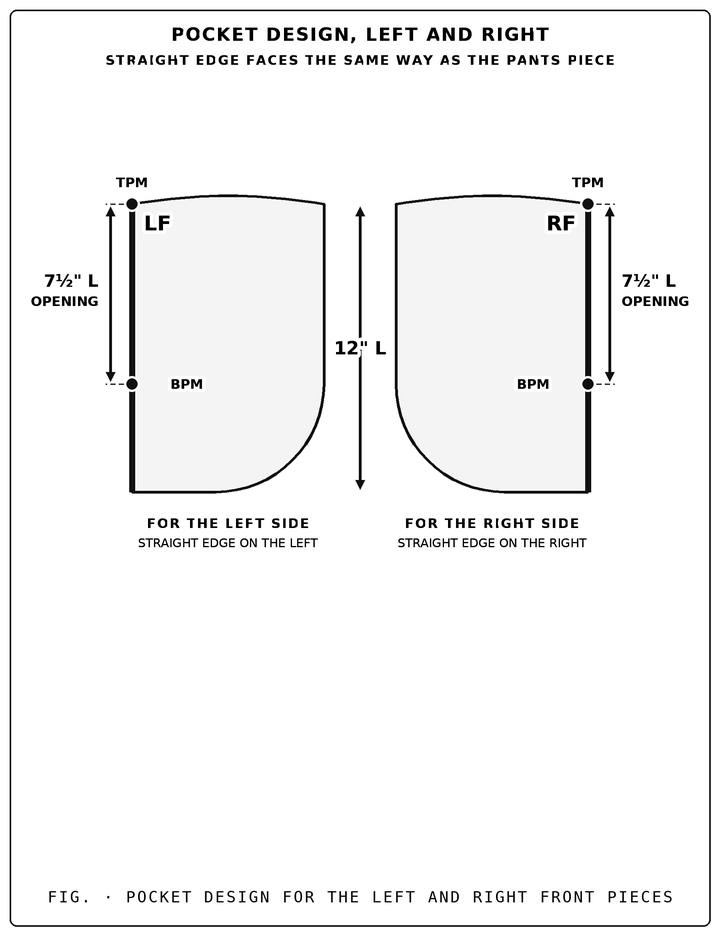
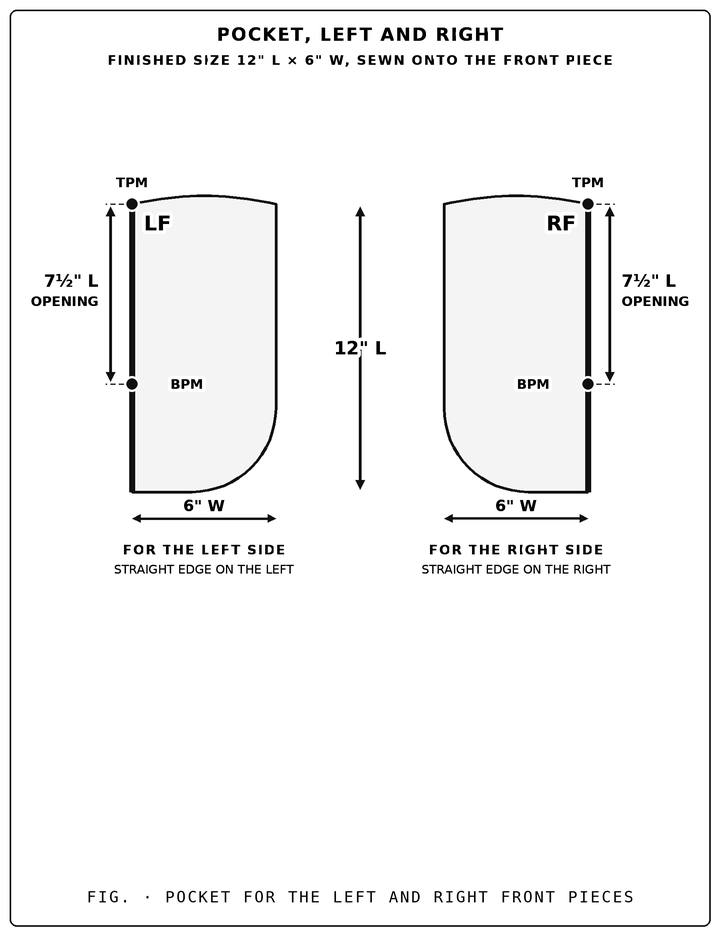
One-piece patch pocket: 6.9 edges and sewing onto the front piece, 6.10 straight edge seam; pocket picture 12 x 6
Claude-Session: https://claude.ai/code/session_01Jb6CsvA4P9m57KaPHMSvnj

diff --git a/index.html b/index.html
@@ -648,33 +648,29 @@ html{scroll-behavior:auto!important}
 <div class="ssec" id="l6_9">
 <div class="ph"><div class="nc"><div class="num">6.9</div></div><div class="tc"><h2>Sew the Pockets</h2></div></div>
 <div class="sbody">
-<div class="top"><div class="topfig"><img alt="cp_pocket.jpg" class="zoom" src="cp_pocket.jpg" long with the opening on the straight edge"><div class="clk">click</div></div><div class="desc2"><p>The pocket design is two pieces of fabric, <span class="dv" data-e="PKL">12</span>" long, with a <span class="dv" data-e="POCK">7½</span>" opening on the straight edge. The pocket sits between the front and the rear pieces, so your hand goes in through the pocket opening. First sew the straight edge above and below the opening, then sew one half of the pocket to each pants piece.</p></div></div>
+<div class="top"><div class="topfig"><img alt="cp_pocket.jpg" class="zoom" src="cp_pocket.jpg"><div class="clk">click</div></div><div class="desc2"><p>Each pocket is one piece of fabric sewn onto the outside of a front piece. It is cut <span class="dv" data-e="PKCL">14</span>" L × <span class="dv" data-e="PKCW">8</span>" W. After the edges are folded and sewn it is <span class="dv" data-e="PKL">12</span>" L × <span class="dv" data-e="PKW">6</span>" W. The right side of the pocket faces out and its wrong side lies against the right side of the front piece, so the rough edges are folded under and never show.</p></div></div>
 <div class="ssec item" id="l6_9_i1">
-<div class="ph"><div class="nc"><div class="num">1</div></div><div class="tc"><h2>Sewing Above and Below the Pocket Opening <span class="tot"><span class="dv" data-e="TPL">42</span>" L</span></h2></div></div>
+<div class="ph"><div class="nc"><div class="num">1</div></div><div class="tc"><h2>Sewing the Pocket Edges <span class="tot"><span class="dv" data-e="PKCL">14</span>" L × <span class="dv" data-e="PKCW">8</span>" W</span></h2></div></div>
 <div class="sbody">
-<div class="desc"><p>Sew all three layers together along the straight edge, leaving the pocket opening unsewn.</p></div>
-<div class="step"><b>Step 1:</b> Lay the rear piece flat. Place the pocket on top of it, then place the front piece over both. Line up all the straight edges.</div>
-<div class="step"><b>Step 2:</b> Start at the top of the straight edge and sew down to the Top Pocket Mark (TPM), <span class="dv" data-e="TPM">6</span>" from the top. Tie a knot and cut the thread.</div>
-<div class="step"><b>Step 3:</b> Skip the <span class="dv" data-e="POCK">7½</span>" pocket opening. Start again at the Bottom Pocket Mark (BPM), <span class="dv" data-e="BPM">13½</span>" from the top, and sew all the way down to the ankle. This sews all three layers together in one pass.</div>
-<div class="t"><div class="tr h c3"><span>Part</span><span>Detail</span><span>Value</span></div><div class="tr c3"><span>Seam above the opening</span><span>Top of the pants to the TPM</span><span class="m"><label class="ckw"><b class="v"><span class="dv" data-e="TPM">6</span>" L</b><input type="checkbox" class="ck" aria-label="counted"></label></span></div><div class="tr c3"><span>Pocket opening</span><span>TPM to BPM, left unsewn</span><span class="m"><label class="ckw"><b class="v"><span class="dv" data-e="POCK">7½</span>" L</b><input type="checkbox" class="ck" aria-label="counted"></label></span></div><div class="tr c3 tot"><span>Seam below the opening</span><span>BPM to the ankle</span><span class="m"><label class="ckw"><b class="v"><span class="dv" data-e="BTA">28½</span>" L</b><input type="checkbox" class="ck" aria-label="counted"></label></span></div></div>
+<div class="desc"><p>Fold the rough edges of the pocket under and sew them down, so no rough edge shows on the outside of the pants.</p></div>
+<div class="step"><b>Step 1:</b> Fold the straight edge <span class="dv" data-e="SAW">1</span>" toward the wrong side and sew it.</div>
+<div class="step"><b>Step 2:</b> Fold the top edge <span class="dv" data-e="SAW">1</span>" down toward the wrong side and sew it.</div>
+<div class="step"><b>Step 3:</b> Fold the arch edge <span class="dv" data-e="SAW">1</span>" toward the wrong side and sew it all the way around the curve.</div>
+<div class="step"><b>Step 4:</b> Do this for both pockets.</div>
+<div class="t"><div class="tr h c3"><span>Part</span><span>Detail</span><span>Value</span></div><div class="tr c3"><span>Finished length</span><span>Top of the pocket to the bottom</span><span class="m"><label class="ckw"><b class="v"><span class="dv" data-e="PKL">12</span>" L</b><input type="checkbox" class="ck" aria-label="counted"></label></span></div><div class="tr c3"><span>Edge allowance</span><span><span class="dv" data-e="SAW">1</span>" folded at the top and <span class="dv" data-e="SAW">1</span>" at the bottom</span><span class="m"><label class="ckw"><b class="v">2" L</b><input type="checkbox" class="ck" aria-label="counted"></label></span></div><div class="tr c3 tot"><span>Cut length</span><span>Finished length + edge allowance</span><span class="m"><label class="ckw"><b class="v"><span class="dv" data-e="PKCL">14</span>" L</b><input type="checkbox" class="ck" aria-label="counted"></label></span></div></div>
+<div class="t"><div class="tr h c3"><span>Part</span><span>Detail</span><span>Value</span></div><div class="tr c3"><span>Finished width</span><span>Straight edge to the arch</span><span class="m"><label class="ckw"><b class="v"><span class="dv" data-e="PKW">6</span>" W</b><input type="checkbox" class="ck" aria-label="counted"></label></span></div><div class="tr c3"><span>Edge allowance</span><span><span class="dv" data-e="SAW">1</span>" folded at each side</span><span class="m"><label class="ckw"><b class="v">2" W</b><input type="checkbox" class="ck" aria-label="counted"></label></span></div><div class="tr c3 tot"><span>Cut width</span><span>Finished width + edge allowance</span><span class="m"><label class="ckw"><b class="v"><span class="dv" data-e="PKCW">8</span>" W</b><input type="checkbox" class="ck" aria-label="counted"></label></span></div></div>
 </div>
 </div>
 <div class="ssec item" id="l6_9_i2">
-<div class="ph"><div class="nc"><div class="num">2</div></div><div class="tc"><h2>Sewing the Pocket to the Rear Piece <span class="tot"><span class="dv" data-e="POCK">7½</span>" L</span></h2></div></div>
+<div class="ph"><div class="nc"><div class="num">2</div></div><div class="tc"><h2>Sewing the Pocket onto the Front Piece <span class="tot"><span class="dv" data-e="PKL">12</span>" L</span></h2></div></div>
 <div class="sbody">
-<div class="desc"><p>One half of the pocket design is sewn to the rear piece along the <span class="dv" data-e="POCK">7½</span>" pocket opening.</p></div>
-<div class="step"><b>Step 1:</b> Line up the opening edge of one half of the pocket with the opening edge of the rear piece, from the TPM to the BPM.</div>
-<div class="step"><b>Step 2:</b> Sew the two opening edges together.</div>
-<div class="t"><div class="tr h c3"><span>Part</span><span>Detail</span><span>Value</span></div><div class="tr c3"><span>Pocket half</span><span>One half of the pocket design</span><span class="m"><label class="ckw"><b class="v">1</b><input type="checkbox" class="ck" aria-label="counted"></label></span></div><div class="tr c3 tot"><span>Rear piece</span><span>Opening edge, TPM to BPM</span><span class="m"><label class="ckw"><b class="v"><span class="dv" data-e="POCK">7½</span>" L</b><input type="checkbox" class="ck" aria-label="counted"></label></span></div></div>
-</div>
-</div>
-<div class="ssec item" id="l6_9_i3">
-<div class="ph"><div class="nc"><div class="num">3</div></div><div class="tc"><h2>Sewing the Pocket to the Front Piece <span class="tot"><span class="dv" data-e="POCK">7½</span>" L</span></h2></div></div>
-<div class="sbody">
-<div class="desc"><p>The other half of the pocket design is sewn to the front piece along the <span class="dv" data-e="POCK">7½</span>" pocket opening. This completes the pocket.</p></div>
-<div class="step"><b>Step 1:</b> Line up the opening edge of the other half of the pocket with the opening edge of the front piece, from the TPM to the BPM.</div>
-<div class="step"><b>Step 2:</b> Sew the two opening edges together.</div>
-<div class="t"><div class="tr h c3"><span>Part</span><span>Detail</span><span>Value</span></div><div class="tr c3"><span>Pocket half</span><span>The other half of the pocket design</span><span class="m"><label class="ckw"><b class="v">1</b><input type="checkbox" class="ck" aria-label="counted"></label></span></div><div class="tr c3 tot"><span>Front piece</span><span>Opening edge, TPM to BPM</span><span class="m"><label class="ckw"><b class="v"><span class="dv" data-e="POCK">7½</span>" L</b><input type="checkbox" class="ck" aria-label="counted"></label></span></div></div>
+<div class="desc"><p>Sew each pocket onto the outside of its front piece. The <span class="dv" data-e="POCK">7½</span>" pocket opening on the straight edge stays unsewn so your hand can go in.</p></div>
+<div class="step"><b>Step 1:</b> Start on the straight edge of the front piece at the TPM (<span class="dv" data-e="TPM">6</span>" from the top) and draw a straight horizontal line across the piece. This is the top of the pocket.</div>
+<div class="step"><b>Step 2:</b> Start on the TPM and measure <span class="dv" data-e="PKL">12</span>" down the straight edge (<span class="dv" data-e="PKB">18</span>" from the top). Make a mark and draw a horizontal line across the piece. This is the bottom of the pocket.</div>
+<div class="step"><b>Step 3:</b> Place the pocket on the right side of the front piece with the right side of the pocket facing out, so the wrong side of the pocket lies against the front piece. Line up the straight edge of the pocket with the straight edge of the front piece, between the two lines.</div>
+<div class="step"><b>Step 4:</b> Sew the top, the arch and the bottom of the pocket onto the front piece. Leave the <span class="dv" data-e="POCK">7½</span>" opening on the straight edge, from the TPM to the BPM, unsewn.</div>
+<div class="step"><b>Step 5:</b> Do this for the left front piece, then for the right front piece.</div>
+<div class="t"><div class="tr h c3"><span>Part</span><span>Detail</span><span>Value</span></div><div class="tr c3"><span>Top of the pocket</span><span>Top Pocket Mark (TPM), from the top</span><span class="m"><label class="ckw"><b class="v"><span class="dv" data-e="TPM">6</span>" L</b><input type="checkbox" class="ck" aria-label="counted"></label></span></div><div class="tr c3"><span>Pocket opening</span><span>TPM to BPM, left unsewn</span><span class="m"><label class="ckw"><b class="v"><span class="dv" data-e="POCK">7½</span>" L</b><input type="checkbox" class="ck" aria-label="counted"></label></span></div><div class="tr c3"><span>Pocket length</span><span>TPM down to the bottom of the pocket</span><span class="m"><label class="ckw"><b class="v"><span class="dv" data-e="PKL">12</span>" L</b><input type="checkbox" class="ck" aria-label="counted"></label></span></div><div class="tr c3 tot"><span>Bottom of the pocket</span><span><span class="dv" data-e="TPM">6</span> + <span class="dv" data-e="PKL">12</span>, from the top</span><span class="m"><label class="ckw"><b class="v"><span class="dv" data-e="PKB">18</span>" L</b><input type="checkbox" class="ck" aria-label="counted"></label></span></div></div>
 </div>
 </div>
 </div>
@@ -682,7 +678,13 @@ html{scroll-behavior:auto!important}
 <div class="ssec" id="l6_10">
 <div class="ph"><div class="nc"><div class="num">6.10</div></div><div class="tc"><h2>Join Front & Rear</h2></div></div>
 <div class="sbody">
-<div class="desc">Connect the front and rear panels to form the full pants shape, routing carefully around the pocket openings.</div><div class="step"><b>Step 1:</b> Place the rear and front pieces together with right sides facing in.</div><div class="step"><b>Step 2:</b> Sew the outer edges from the top of the waistband, stopping 1" before the TPM mark.</div><div class="step"><b>Step 3:</b> Sew around the pocket pieces until you reach the BPM mark.</div><div class="step"><b>Step 4:</b> Continue sewing from the BPM mark all the way down to the ankle.</div><div class="step"><b>Step 5:</b> Skip the pocket slot, then repeat everything on the other side.</div><div class="r"><span>Position</span><b>Front and rear, right sides facing each other</b></div><div class="r"><span>Step 1</span><b>Sew outer edges from the waistband top; stop 1" before the TPM mark</b></div><div class="r"><span>Step 2</span><b>Sew around the edges of both pocket pieces until the BPM mark</b></div><div class="r"><span>Step 3</span><b>Continue the outer edges from the BPM mark down to the ankle</b></div><div class="r key"><span>Pocket slot</span><b>7½" long, skipped to finish the rest of the seam</b></div><div class="r"><span>Repeat</span><b>All steps for the other side</b></div></div>
+<div class="desc"><p>Connect the front and rear pieces to form the full pants shape, leaving the pocket opening unsewn.</p></div>
+<div class="step"><b>Step 1:</b> Place the rear and front pieces together with right sides facing in.</div>
+<div class="step"><b>Step 2:</b> Start at the top of the straight edge and sew down to the Top Pocket Mark (TPM). Tie a knot and cut the thread.</div>
+<div class="step"><b>Step 3:</b> Skip the <span class="dv" data-e="POCK">7½</span>" pocket opening. Start again at the Bottom Pocket Mark (BPM) and sew all the way down to the ankle.</div>
+<div class="step"><b>Step 4:</b> Do the same on the other side.</div>
+<div class="t"><div class="tr h c3"><span>Part</span><span>Detail</span><span>Value</span></div><div class="tr c3"><span>Seam above the opening</span><span>Top of the pants to the TPM</span><span class="m"><label class="ckw"><b class="v"><span class="dv" data-e="TPM">6</span>" L</b><input type="checkbox" class="ck" aria-label="counted"></label></span></div><div class="tr c3"><span>Pocket opening</span><span>TPM to BPM, left unsewn</span><span class="m"><label class="ckw"><b class="v"><span class="dv" data-e="POCK">7½</span>" L</b><input type="checkbox" class="ck" aria-label="counted"></label></span></div><div class="tr c3 tot"><span>Seam below the opening</span><span>BPM to the ankle</span><span class="m"><label class="ckw"><b class="v"><span class="dv" data-e="BTA">28½</span>" L</b><input type="checkbox" class="ck" aria-label="counted"></label></span></div></div>
+</div>
 </div>
 </div>
 </div>
@@ -715,7 +717,7 @@ html{scroll-behavior:auto!important}
   document.addEventListener('keydown', function(e){ if(e.key==='Escape') ov.classList.remove('on'); });
 
   /* ---- numbers: inputs, formulas, live update ---- */
-  var C={"SAW": 1, "SIDES": 2, "PIECES": 4, "COMF": 2, "TRIM": 2, "WBF": 2, "WBS": 1, "ANK": 1, "FIN": 2, "GAP": 1, "POCK": 7.5, "CORD": 22, "YD": 36, "CCOMF": 2, "PKL": 12}, DEF={"WS": 42, "CW": 14, "AW": 9, "PML": 38, "FCL": 12}, F=[["TSA", "SAW*SIDES*PIECES"], ["TPW", "WS+TSA+COMF"], ["WSPP", "WS/PIECES"], ["CPP", "COMF/PIECES"], ["SAPP", "SAW*SIDES"], ["IWPW", "WSPP+CPP+SAPP"], ["TCW", "CW+CPP+SAPP"], ["FW", "TCW+TRIM"], ["ROOM", "CORD-FW"], ["CPA", "COMF/2"], ["TAW", "AW+CPA+SAPP"], ["WSA", "WBF+WBS"], ["TPL", "PML+WSA+ANK"], ["WB", "FIN+WSA"], ["TPM", "WB+GAP"], ["BPM", "TPM+POCK"], ["PKB", "TPM+PKL"], ["PKU", "PKL-POCK"], ["BTA", "TPL-BPM"], ["TCL", "FCL+CCOMF+WSA"], ["SQIN", "CORD*TPL"], ["SQYD", "CORD*YD"], ["YDS", "SQIN/SQYD"], ["YDN", "ceil(YDS)"], ["YDIN", "YDN*YD"], ["TOTYD", "YDN*2"], ["LEFT", "YDIN-TPL"]], VAL={"WS": ["WS", " W", ["WS"]], "WSPP": ["WSPP", " W", ["WS"]], "TPW": ["TPW", " W", ["WS"]], "IWPW": ["IWPW", " W", ["WS"]], "TCW": ["TCW", " W", ["CW"]], "TAW": ["TAW", " W", ["AW"]], "PML": ["PML", " L", ["PML"]], "TPL": ["TPL", " L", ["PML"]], "BTA": ["BTA", " L", ["PML"]], "FCL": ["FCL", " L", ["FCL"]], "TCL": ["TCL", " L", ["FCL"]], "BCM": ["TCL", " L", ["FCL"]]};
+  var C={"SAW": 1, "SIDES": 2, "PIECES": 4, "COMF": 2, "TRIM": 2, "WBF": 2, "WBS": 1, "ANK": 1, "FIN": 2, "GAP": 1, "POCK": 7.5, "CORD": 22, "YD": 36, "CCOMF": 2, "PKL": 12, "PKW": 6}, DEF={"WS": 42, "CW": 14, "AW": 9, "PML": 38, "FCL": 12}, F=[["TSA", "SAW*SIDES*PIECES"], ["TPW", "WS+TSA+COMF"], ["WSPP", "WS/PIECES"], ["CPP", "COMF/PIECES"], ["SAPP", "SAW*SIDES"], ["IWPW", "WSPP+CPP+SAPP"], ["TCW", "CW+CPP+SAPP"], ["FW", "TCW+TRIM"], ["ROOM", "CORD-FW"], ["CPA", "COMF/2"], ["TAW", "AW+CPA+SAPP"], ["WSA", "WBF+WBS"], ["TPL", "PML+WSA+ANK"], ["WB", "FIN+WSA"], ["TPM", "WB+GAP"], ["BPM", "TPM+POCK"], ["PKB", "TPM+PKL"], ["PKCL", "PKL+2"], ["PKCW", "PKW+2"], ["PKCL", "PKL+SAPP"], ["PKCW", "PKW+SAPP"], ["PKU", "PKL-POCK"], ["BTA", "TPL-BPM"], ["TCL", "FCL+CCOMF+WSA"], ["SQIN", "CORD*TPL"], ["SQYD", "CORD*YD"], ["YDS", "SQIN/SQYD"], ["YDN", "ceil(YDS)"], ["YDIN", "YDN*YD"], ["TOTYD", "YDN*2"], ["LEFT", "YDIN-TPL"]], VAL={"WS": ["WS", " W", ["WS"]], "WSPP": ["WSPP", " W", ["WS"]], "TPW": ["TPW", " W", ["WS"]], "IWPW": ["IWPW", " W", ["WS"]], "TCW": ["TCW", " W", ["CW"]], "TAW": ["TAW", " W", ["AW"]], "PML": ["PML", " L", ["PML"]], "TPL": ["TPL", " L", ["PML"]], "BTA": ["BTA", " L", ["PML"]], "FCL": ["FCL", " L", ["FCL"]], "TCL": ["TCL", " L", ["FCL"]], "BCM": ["TCL", " L", ["FCL"]]};
   var FRs=['','\u215b','\u00bc','\u215c','\u00bd','\u215d','\u00be','\u215e'];
   function fmt(x,dec){
     if(dec) return (Math.round(x*100)/100).toString();
